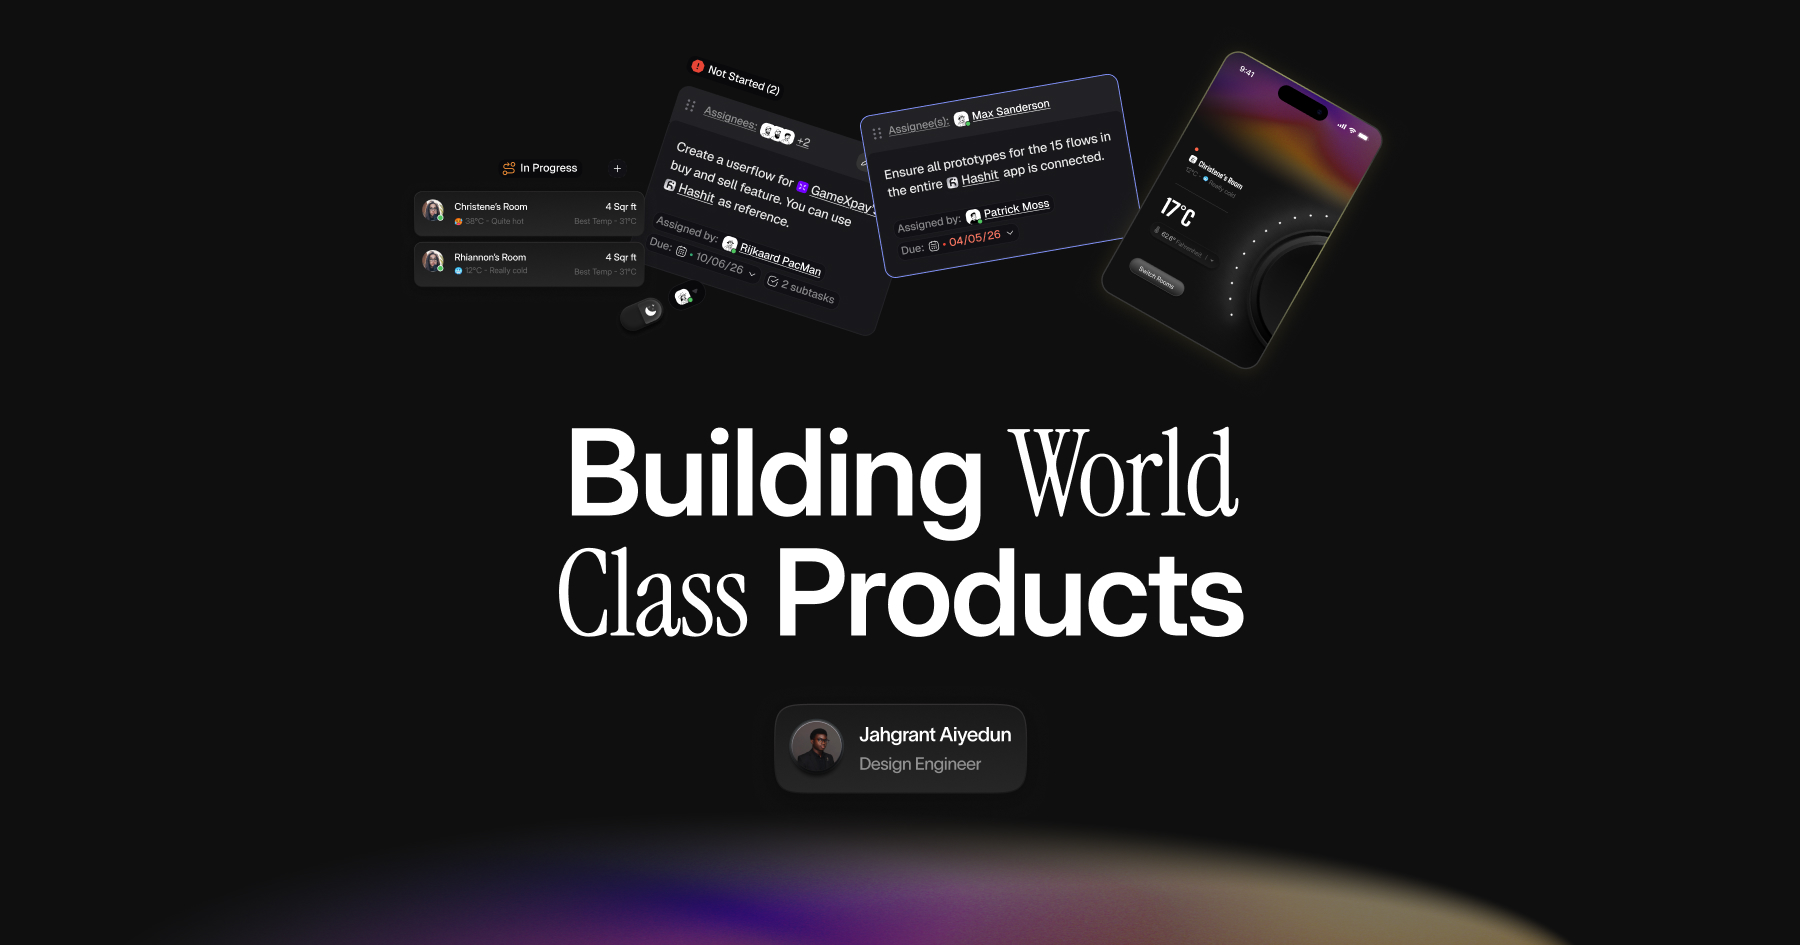
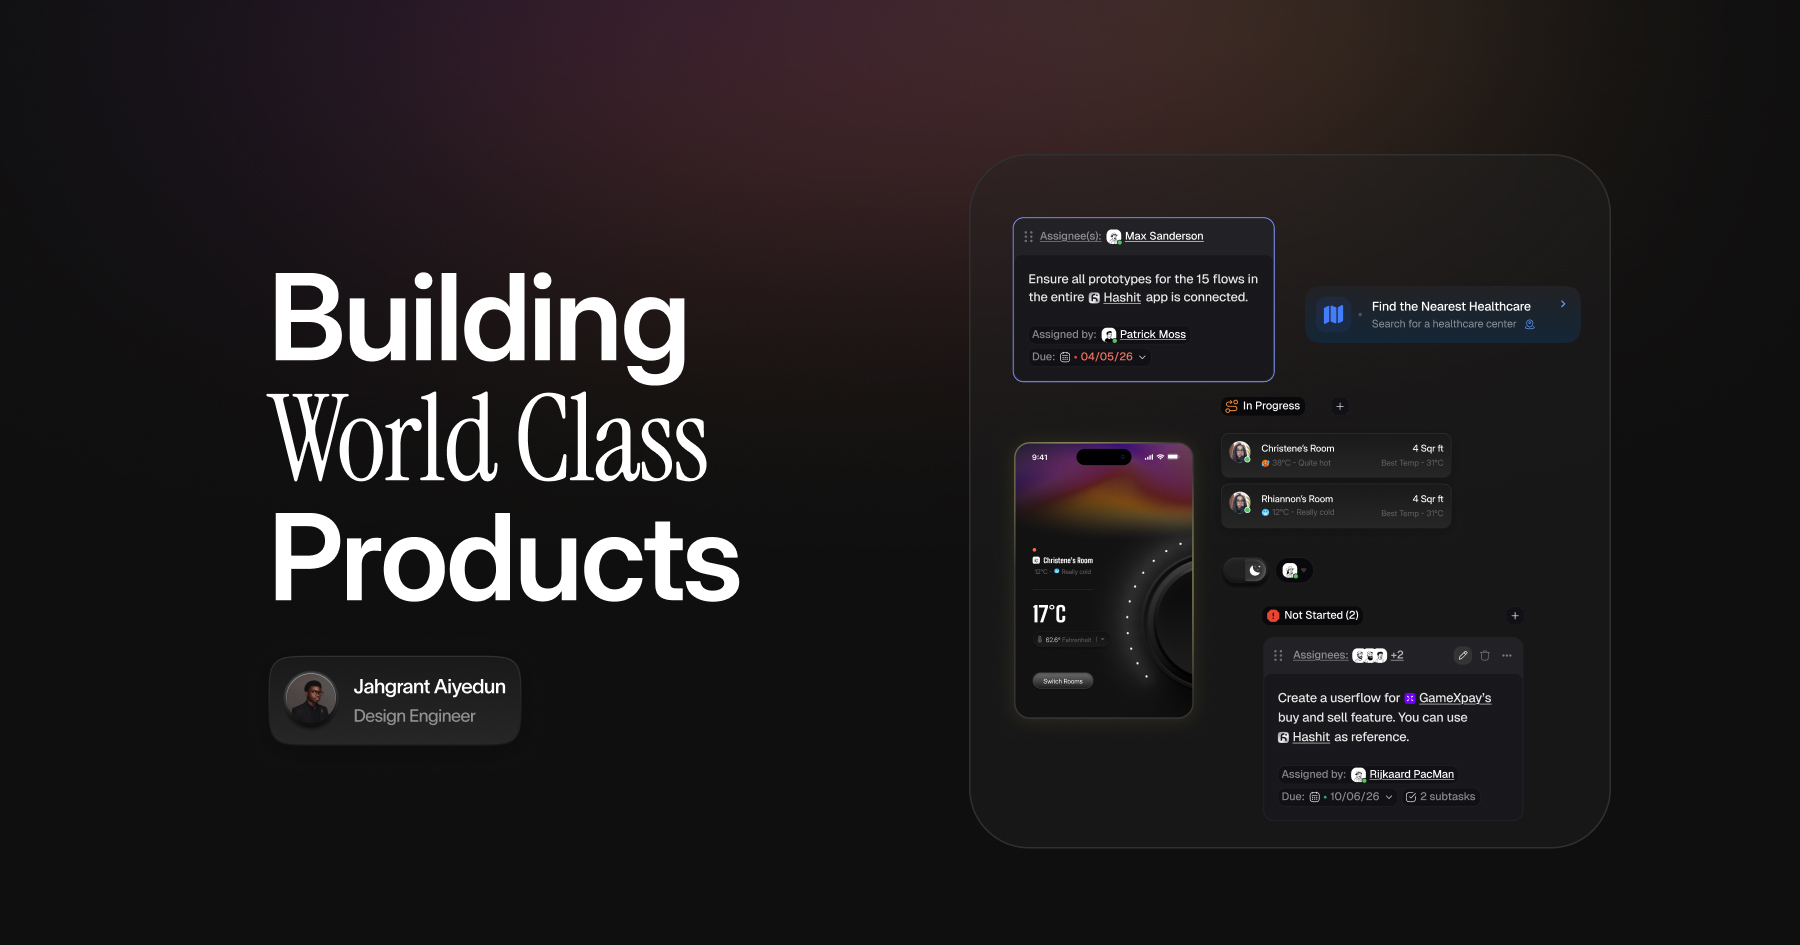
Swap share image (thumbing3) + update caption (drop Web3/gaming)

diff --git a/index.html b/index.html
@@ -11,13 +11,13 @@
     <link rel="preconnect" href="https://fonts.gstatic.com" crossorigin />
     <link href="https://fonts.googleapis.com/css2?family=TWK+Lausanne:wght@400;500;600;700&family=JetBrains+Mono:wght@400;500;600&display=swap" rel="stylesheet" />
     <title>Jahgrant Aiyedun — Design Engineer</title>
-    <meta name="description" content="I craft high-quality, high-polish product experiences for Web3 and gaming teams." />
+    <meta name="description" content="I design and build high-quality products, end to end — with AI." />
 
     <!-- Open Graph -->
     <meta property="og:type" content="website" />
     <meta property="og:url" content="https://geeboy.me" />
     <meta property="og:title" content="Jahgrant Aiyedun — Design Engineer" />
-    <meta property="og:description" content="I craft high-quality, high-polish product experiences for Web3 and gaming teams." />
+    <meta property="og:description" content="I design and build high-quality products, end to end — with AI." />
     <meta property="og:image" content="https://geeboy.me/og-image.jpg" />
     <meta property="og:image:width" content="1800" />
     <meta property="og:image:height" content="945" />
@@ -27,7 +27,7 @@
     <meta name="twitter:site" content="@granttheeking" />
     <meta name="twitter:creator" content="@granttheeking" />
     <meta name="twitter:title" content="Jahgrant Aiyedun — Design Engineer" />
-    <meta name="twitter:description" content="I craft high-quality, high-polish product experiences for Web3 and gaming teams." />
+    <meta name="twitter:description" content="I design and build high-quality products, end to end — with AI." />
     <meta name="twitter:image" content="https://geeboy.me/og-image.jpg" />
   </head>
   <body>
